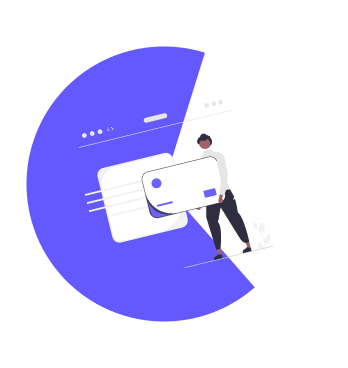
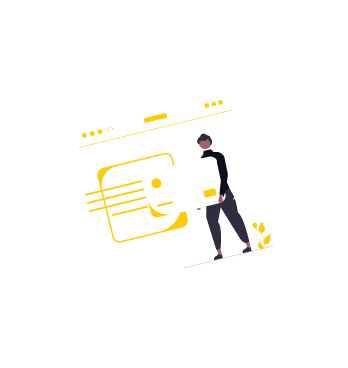
Changed the color code

Changed region(s): [[0.0575, 0.1196, 0.7471, 0.8967], [0.7184, 0.5978, 0.7759, 0.6875]]

diff --git a/src/components/auth/Login/index.js b/src/components/auth/Login/index.js
@@ -11,7 +11,7 @@ function Index() {
   return (
     <div className='w-full h-[100vh] '>
       <div className='grid justify-center w-full h-full grid-cols-1 lg:grid-cols-2 '>
-        <div className='w-full h-full bg-[#6C63FF] hidden lg:block'>
+        <div className='w-full h-full bg-[#fecc09] hidden lg:block'>
           <div className='flex items-center justify-start'>
             <div>
               <Image src={Human1} height={230} width={230} alt='' />
@@ -40,7 +40,7 @@ function Index() {
             </div>
           </div>
         </div>
-        <div className='w-full h-full'>
+        <div className='w-full h-full '>
           <div className='flex justify-between w-full h-[90px] '>
             <Image src={Dot1} alt='' height={100} width={100} />
             <Image src={Dot2} alt='' height={100} width={100} />

diff --git a/src/components/auth/Sign-up/index.js b/src/components/auth/Sign-up/index.js
@@ -11,7 +11,7 @@ function SignUp() {
   return (
     <div className='w-full h-[100vh] '>
       <div className='grid justify-center w-full h-full grid-cols-1 lg:grid-cols-2 '>
-        <div className='w-full h-full bg-[#6C63FF] hidden lg:block'>
+        <div className='w-full h-full bg-[#fecc09] hidden lg:block'>
           <div className='flex items-center justify-start'>
             <div>
               <Image src={Human1} height={230} width={230} alt='' />
